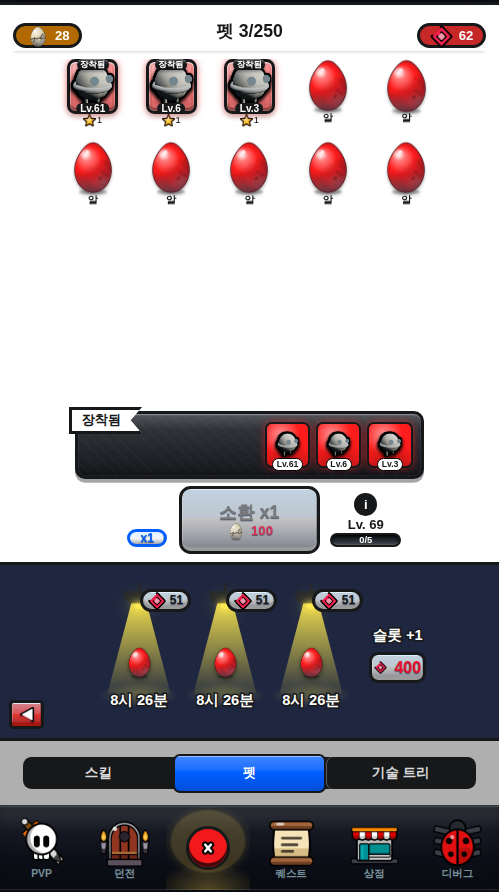
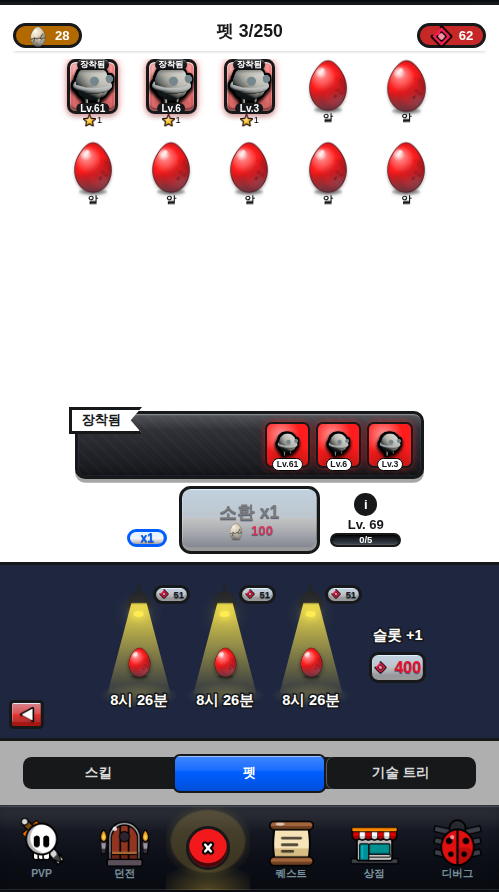
부화 램프를 '전등'으로 다시 그렸다 — 돔 갓 + 또렷한 전구, 젬 알약이 갓을 안 가리게 (ui-ratio-audit ⓓ′)
원본 램프는 돔형 갓 아래 또렷한 노란 전구가 달린 전등으로 읽히는데,
클론은 갓이 border-radius 로 **아래쪽**이 둥근 납작한 라운드 사각이라
돔이 아니었고 전구도 반쪽 알약이라 사실상 안 보여, 확대하면 어두운
얼룩 하나로만 보였다.

원본 실측(042445, 밴드 y573 기준 · 앱 폭 490): 갓 y586~603(높이
3.67%W) · 바닥 폭 4.90%W · 꼭대기 7px 인 반타원 / 전구 y606~611
(높이 1.22%W · 폭 2.04%W)이 갓 바닥에서 0.41%W 띄고 가운데.
그대로 앱 폭 비율로 박았다.

또 우리 기능인 젬 스킵 ◇51 알약이 폭 60px 로 갓을 가로로 덮고 있었다 —
기능은 그대로 두고 크기만 줄여 갓 자리를 비웠다.

probe-pets-dom·pets2-dom·pets-timer-px 3종 PASS · 콘솔 에러 0.

Claude-Session: https://claude.ai/code/session_0155J2EwHXMdPcsLd29Q3KLP

Changed region(s): [[0.6012, 0.6357, 0.7214, 0.6962], [0.4208, 0.6357, 0.5711, 0.6962], [0.2705, 0.6357, 0.3908, 0.6962]]

diff --git a/web/css/style.css b/web/css/style.css
@@ -4021,12 +4021,24 @@ body {
 }
 .hatch-lamp {
     position: absolute; top: 0; left: 50%; transform: translateX(-50%);
-    /* 원본(042445) 램프 갓 실측 폭 6.33%W(31px) — 2.4rem 은 40px(8.24%W)이라 +1.9%p 넓었다.
-       비평가 A 의 '부화기 램프 그룹 우측 +2.6~3.1%p'(3라운드 연속) 의 뿌리가 여기다. */
-    width: calc(var(--app-w) * .0633); height: .8rem; background: #23252b; border-radius: 0 0 .6rem .6rem;
+    /* 🚨 원본 램프는 **돔형 갓 + 그 아래 또렷한 노란 전구**라 '전등'으로 읽힌다. 클론은 갓이
+       `border-radius: 0 0 .6rem .6rem`(=**아래쪽**이 둥근 납작한 라운드 사각)이라 돔이 아니었고,
+       전구도 반쪽 알약이라 사실상 안 보여 **어두운 얼룩**으로만 읽혔다(확대 크롭 확인).
+       원본 실측(042445, 밴드 y573 기준 · 앱 폭 490):
+         · 갓  y586~603(높이 18px = 3.67%W) · 바닥 폭 24px(**4.90%W**) · 꼭대기 폭 7px → 반타원 돔
+         · 전구 y606~611(높이 6px = 1.22%W) · 폭 10px(2.04%W) · 갓 바닥에서 2px(0.41%W) 띄고 가운데
+       ⚠ 종전 값 2.4rem(40px = 8.24%W)은 **원본의 1.6배**였다 — 비평가 A 가 3라운드 연속 낸
+          '램프 그룹 우측 +2.6~3.1%p' 의 뿌리다(콘은 오히려 왼쪽이라 그쪽이 아니었다). */
+    width: calc(var(--app-w) * .049); height: calc(var(--app-w) * .0367);
+    background: #23252b; border-radius: 50% 50% .1rem .1rem / 100% 100% .1rem .1rem;
 }
 .hatch-lamp::before { content: ''; position: absolute; top: -.5rem; left: 50%; transform: translateX(-50%); width: .18rem; height: .5rem; background: #23252b; }
-.hatch-lamp::after { content: ''; position: absolute; bottom: -.28rem; left: 50%; transform: translateX(-50%); width: .5rem; height: .28rem; background: #ffe95c; border-radius: 0 0 .3rem .3rem; }
+/* 전구 — 원본은 갓 밑에 또렷이 떠 있는 노란 덩어리다(반쪽 알약이 아니라 가로로 넓은 타원). */
+.hatch-lamp::after {
+    content: ''; position: absolute; bottom: calc(var(--app-w) * -.0163); left: 50%; transform: translateX(-50%);
+    width: calc(var(--app-w) * .0204); height: calc(var(--app-w) * .0122);
+    background: #ffe95c; border-radius: 50%;
+}
 .hatch-cone {
     position: absolute; top: .7rem; left: 50%; transform: translateX(-50%);
     width: calc(var(--app-w) * .1265); height: 5.4rem; pointer-events: none;   /* 원본 빛기둥 폭 12.65%W */
@@ -4049,7 +4061,12 @@ body {
 /* 젬 스킵 필을 흐름에서 빼 칸 우상단 오버레이로 — 원본(042445) 칸은 타이머가 맨 아래(79.3%H)인데
    필이 타이머 밑 흐름에 있으면 타이머가 76.0%H 로 3%p 위로 밀린다(전수 검증 채점 2차 2인 공통,
    픽셀 교차검증). 기능(QA 차수들이 실측하는 '젬 스킵')은 그대로 살린다. */
-.hatch-cell > .btn.xs { position: absolute; top: -.1rem; right: -.55rem; z-index: 2; padding: .1rem .3rem; }
+/* 🚨 이 젬 스킵 알약은 **원본에 없는 우리 기능**이라 비율 제약은 없지만, 종전 크기(폭 ≈60px)로는
+   가운데 램프 갓을 **가로로 덮어** 원본의 '전등' 실루엣을 지웠다(확대 크롭 확인). 갓은 셀 가운데
+   폭 4.90%W(≈24px)를 쓰므로, 알약이 셀 오른쪽에서 그 자리를 침범하지 않을 만큼 줄인다.
+   기능(QA 차수들이 실측하는 '젬 스킵')은 그대로다 — 크기만 줄였다. */
+.hatch-cell > .btn.xs { position: absolute; top: -.35rem; right: -.5rem; z-index: 2; padding: .04rem .2rem; font-size: .56rem; line-height: 1.1; }
+.hatch-cell > .btn.xs .ico { width: .62rem; height: .62rem; margin: 0 .08rem 0 0; vertical-align: -.08rem; }
 .hatch-cell .hatch-time { margin-top: .55rem; }
 /* 원본(042445) [슬롯 +1] 은 **한 덩어리 버튼이 아니다** — 밴드 위에 그냥 얹힌 흰 글자 `슬롯 +1` 과
    그 아래 **은색 알약(젬 아이콘 + 빨간 숫자)** 두 조각이다(확대 크롭·픽셀 맵 확인). 클론은 둘을 한
